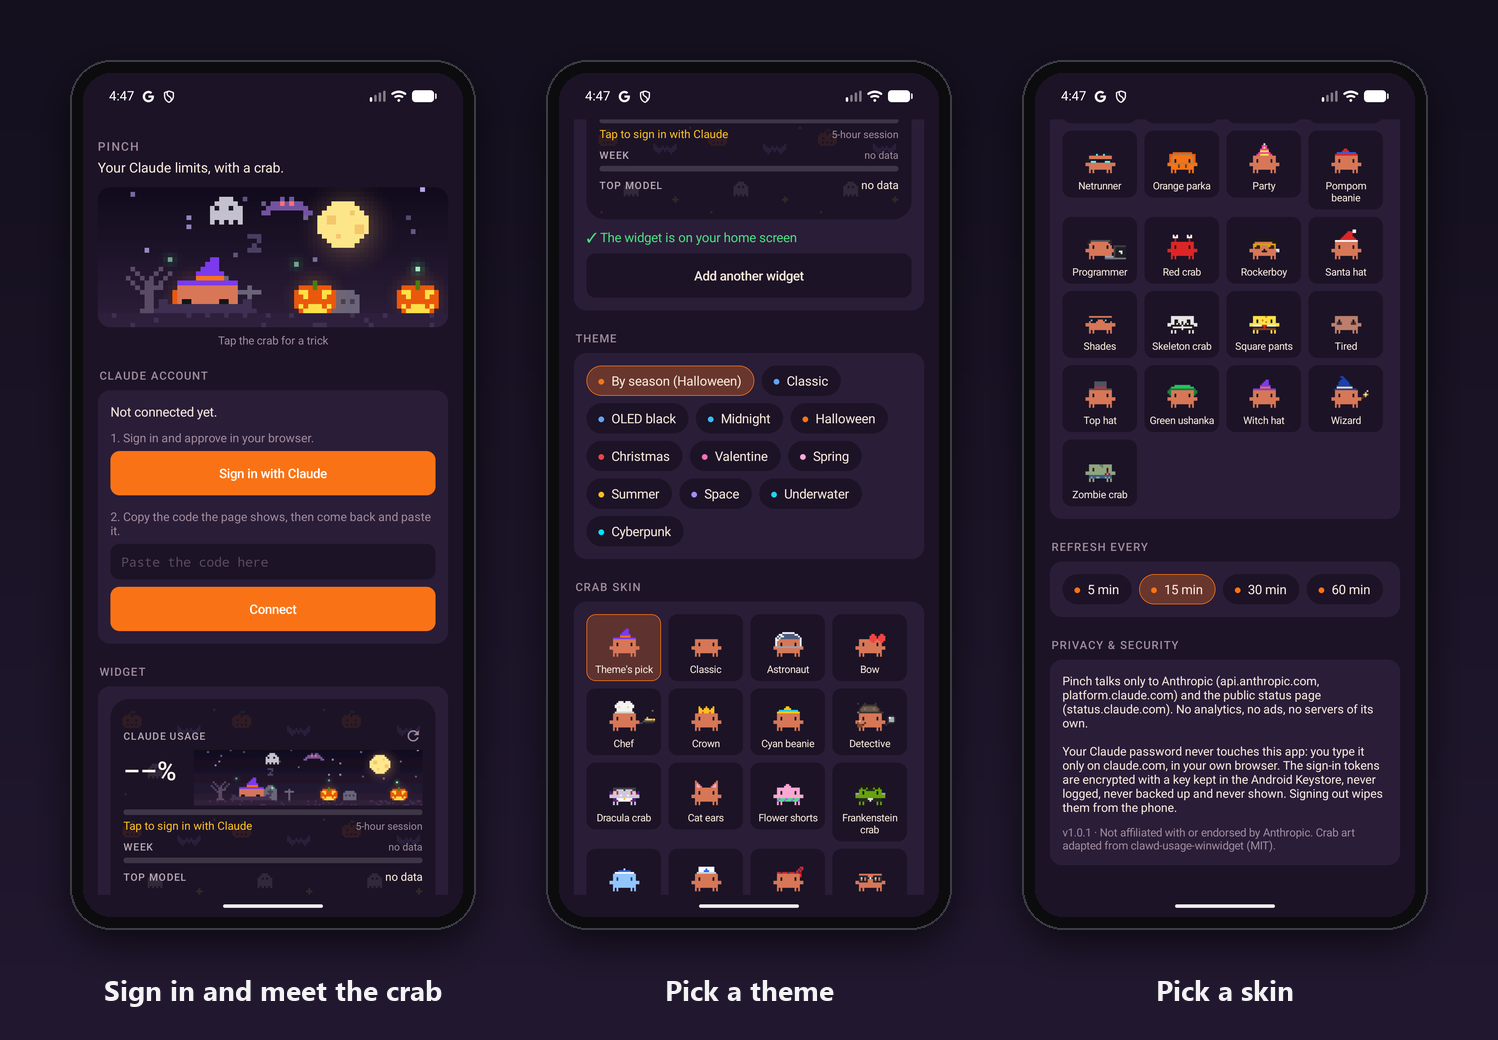
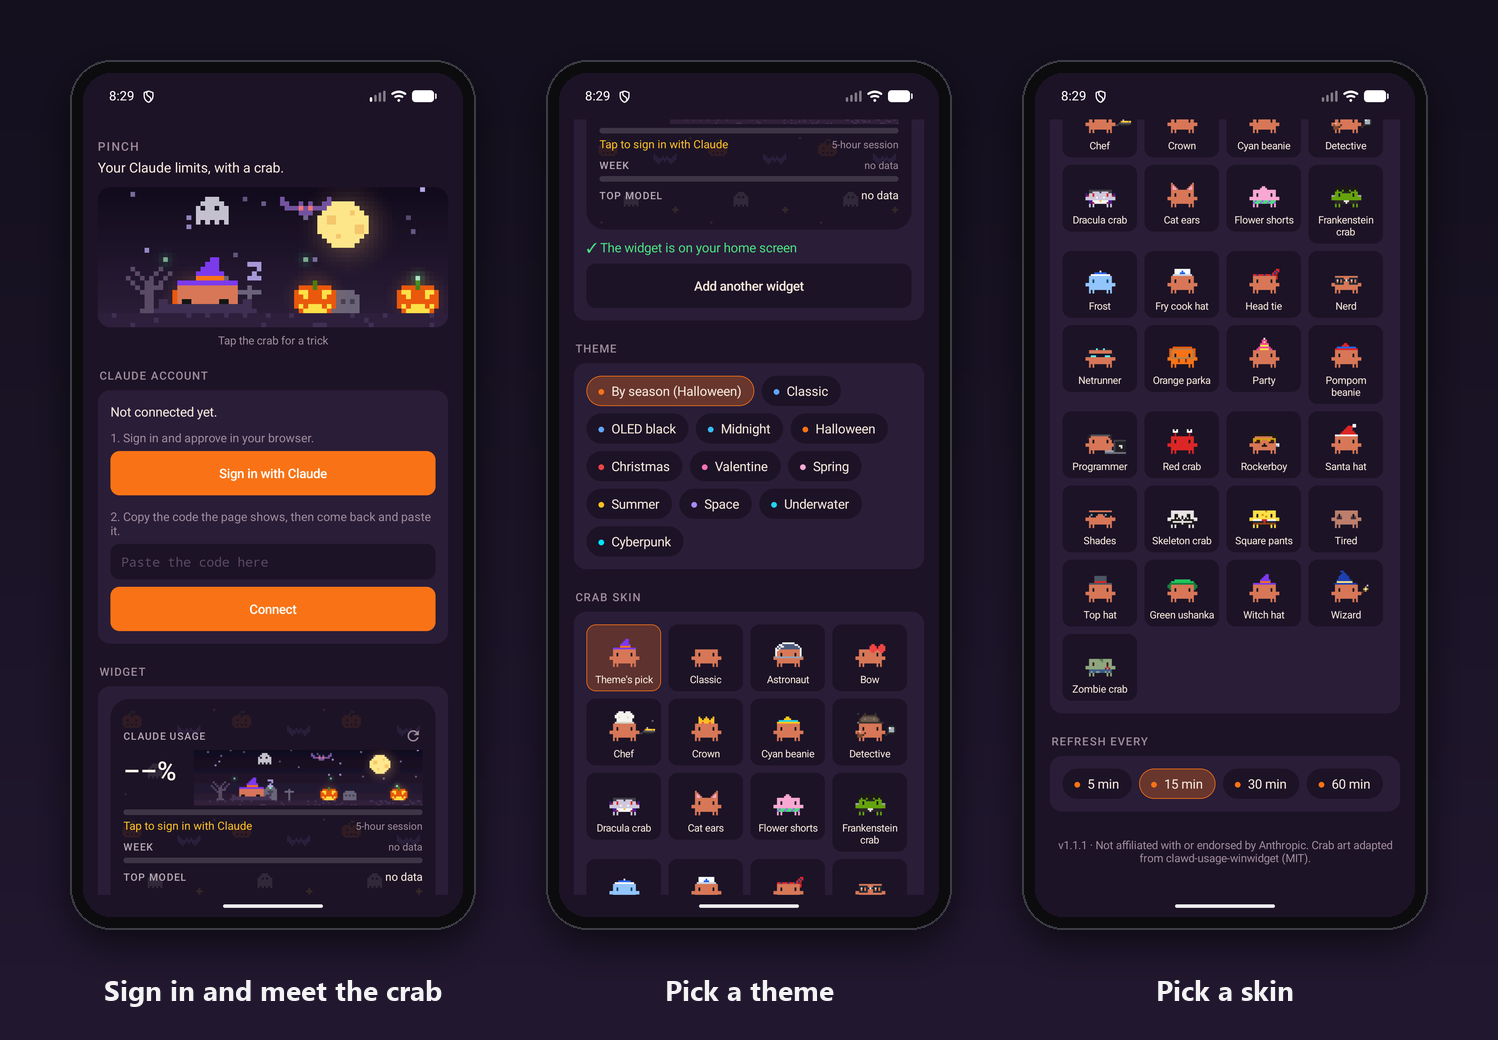
1.1.1: remove the privacy text card from the app
The details stay in the README and SECURITY.md; the app keeps a one-line
footer with the version, the not-affiliated note and the crab art credit.

diff --git a/app/src/main/java/dev/pinch/app/ui/MainActivity.kt b/app/src/main/java/dev/pinch/app/ui/MainActivity.kt
@@ -178,11 +178,10 @@ class MainActivity : Activity() {
             box.addView(flow)
         })
 
-        // Privacy.
-        col.addView(header(getString(R.string.privacy)))
-        col.addView(card { box ->
-            box.addView(text(getString(R.string.privacy_body), 13f, theme.text))
-            box.addView(text(getString(R.string.disclaimer, BuildConfig.VERSION_NAME), 12f, theme.muted).apply { setPadding(0, dp(10), 0, 0) })
+        // Footer: version, not affiliated, and the credit the crab art's license asks for.
+        col.addView(text(getString(R.string.disclaimer, BuildConfig.VERSION_NAME), 12f, theme.muted).apply {
+            gravity = Gravity.CENTER
+            setPadding(dp(8), dp(28), dp(8), 0)
         })
 
         val scroll = ScrollView(this).apply {
